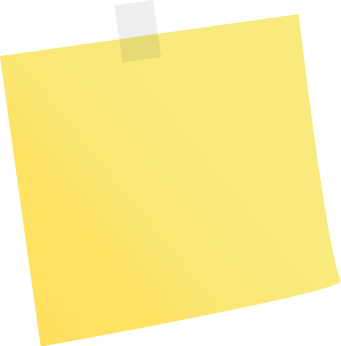
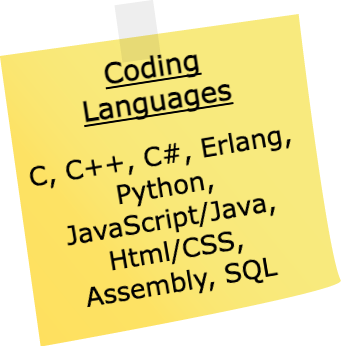
onlinetest

diff --git a/style.css b/style.css
@@ -1,21 +1,24 @@
 html{
-    background-color: #0E65A3;
-    padding: 0 auto;
+    background-color: #000000;
     margin: 0 auto;
-    border: 0 auto;
-    outline: 0 auto;
+    margin-bottom: -10px;
     margin-left: -10px;
     margin-right: 10px;
+    width: 105%;
+    height: auto;
     margin-top: -10px;
+    max-width: 1920px;
+    min-width: 480px;
+
 
 }
 
 .wrapper{
     width: 100%;
+    height: 100%;
 
- 
     position: absolute;
-    z-index: 2;
+    z-index: 5;
 }
 .github{
     width: 20%;
@@ -63,11 +66,11 @@ nav a:hover{
 
     background-image: url(images/htmlbk1.jpg);
     background-size:cover;
-    background-position: center;
-    object-fit:fill;
+
+    object-fit:cover;
     width: 100%;
     height: 100%;
-    
+
     border: solid 1px;
    
     
@@ -79,7 +82,7 @@ nav a:hover{
     width:17.5%;
     border: 5px solid rgb(255, 255, 255);
     border-radius: 87%;
- 
+    min-width: auto;
 
     top: 30%;
     left: 42.5%;
@@ -91,8 +94,6 @@ nav a:hover{
 .banner-area:after{
     content:'';
     position: absolute;
-    top: 0;
-    left: 0;
     display: block;
     width: 100%;
     height: 100%;
@@ -109,7 +110,7 @@ nav a:hover{
     width: 175px;
     font-family:'Trebuchet MS', 'Lucida Sans Unicode', 'Lucida Grande', 'Lucida Sans', Arial, sans-serif;
     color: rgb(255, 0, 0);
-    position: absolute;
+    position: relative;
     top: 205px;
     left: 43.5%;
     background-color:white;
@@ -124,28 +125,32 @@ nav a:hover{
     background: #0E65A3;
 
 }
-.content-area h2{
-    position: absolute;
-    left:50% ;
-    top: 200px;
-    color: rgb(255, 255, 255);
-    font-size: 40px;
-   
-    
-    
 
-    
-}
 .profile_pic{
     height: 10px;
 }
 
 #stickynote{
     position: absolute;
-    height: 30%;
+    height: 20%;
     width: auto;
-    z-index: 4;
-    left: 20%;
-    top: 25%;
+    z-index: 2;
+    margin-left:10% ;
+    margin-top: 12%;
+    max-height: 30%;
+  
 
 }
+
+#stickynote2{
+    position: absolute;
+    height: 20%;
+
+    z-index: 3;
+    right: 10%;
+    margin-top: 17%;
+    transform: rotate(12deg);
+}
+
+
+

diff --git a/index.html b/index.html
@@ -43,7 +43,9 @@
 
         <div class="content-area">
              <div class="wrapper" >
-                 <h2> s</h2>
+                 <h2> 
+                    
+                 </h2>
                  <p>
                     
                     
@@ -54,7 +56,7 @@
 </div>
 		<main>
             <img id="stickynote" src="images/sticky_note_PNG18941.png"/>
-            
+            <img id="stickynote2" src="images//cdp.png"/>
             
 	
 		</main>
